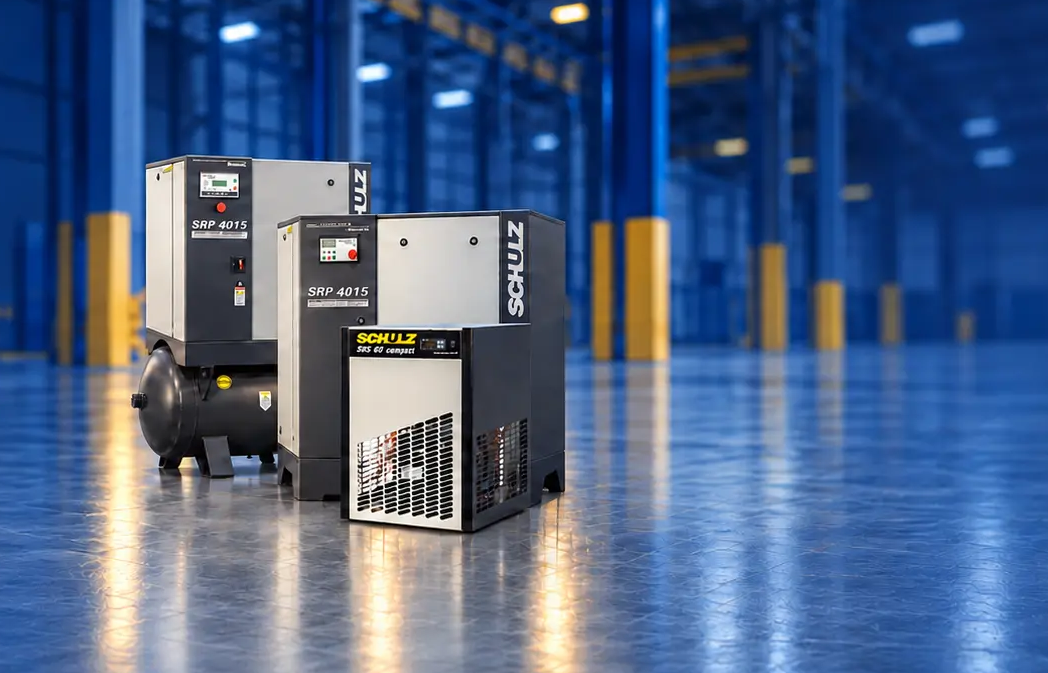
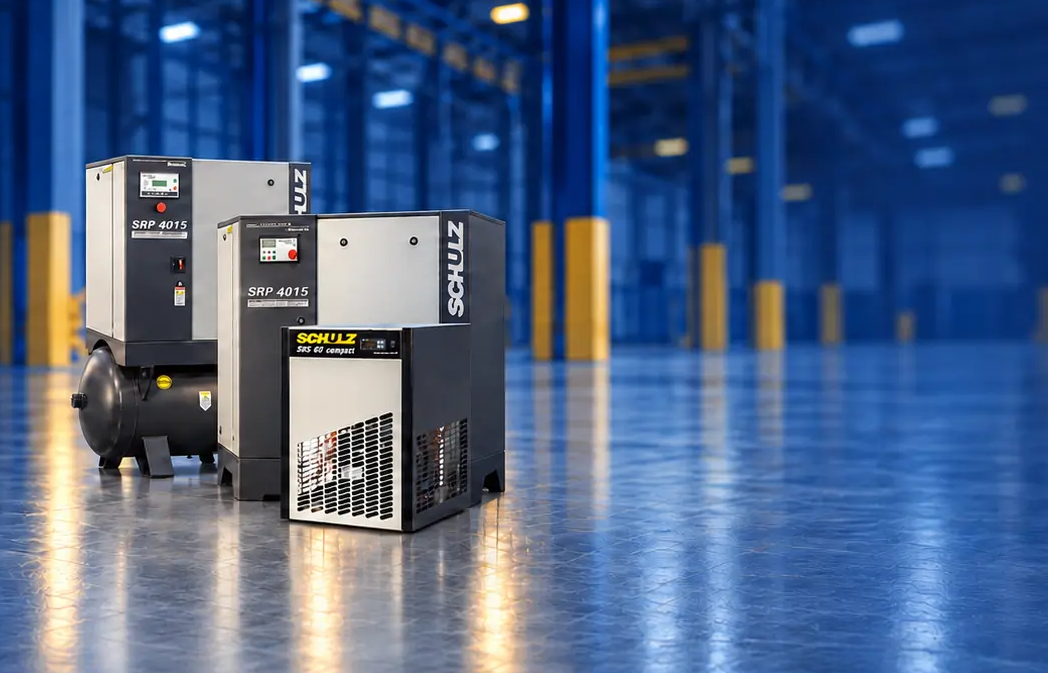
feat: equipamentos do hero ainda mais perto do texto, barra de pontos com base navy

diff --git a/docs/BRIEFING.md b/docs/BRIEFING.md
@@ -102,7 +102,7 @@ Derivada em: 21/10/2026 por `npm run ficha` — `linhas processo aplicacoes dife
 | Asset          | Arquivo                 | Origem                                                                                                                                                                                                                  | Status                                            |
 | -------------- | ----------------------- | ----------------------------------------------------------------------------------------------------------------------------------------------------------------------------------------------------------------------- | ------------------------------------------------- |
 | Logo           | `src/assets/LOGO.png`   | a da LP de manutenção (site do cliente, 341×82)                                                                                                                                                                         | entregue (baixa resolução: pedir vetor ou PNG 2×) |
-| Banner do hero | `src/assets/heroBg.png` | banner do cliente (23/10/2026, 1870×841: SRP 4015 com reservatório, SRP 4015 e secador SRS 60 em galpão), recortado com zoom de 25% (x 667, y 86, 1048×673) para os equipamentos ficarem maiores e logo depois do texto | entregue                                          |
+| Banner do hero | `src/assets/heroBg.png` | banner do cliente (23/10/2026, 1870×841: SRP 4015 com reservatório, SRP 4015 e secador SRS 60 em galpão), recortado com zoom de 25% (x 727, y 86, 1048×673) para os equipamentos ficarem maiores e logo depois do texto | entregue                                          |
 
 | Asset                 | Arquivo                                            | Origem                                                                                                                                                                                       | Status                                                    |
 | --------------------- | -------------------------------------------------- | -------------------------------------------------------------------------------------------------------------------------------------------------------------------------------------------- | --------------------------------------------------------- |
